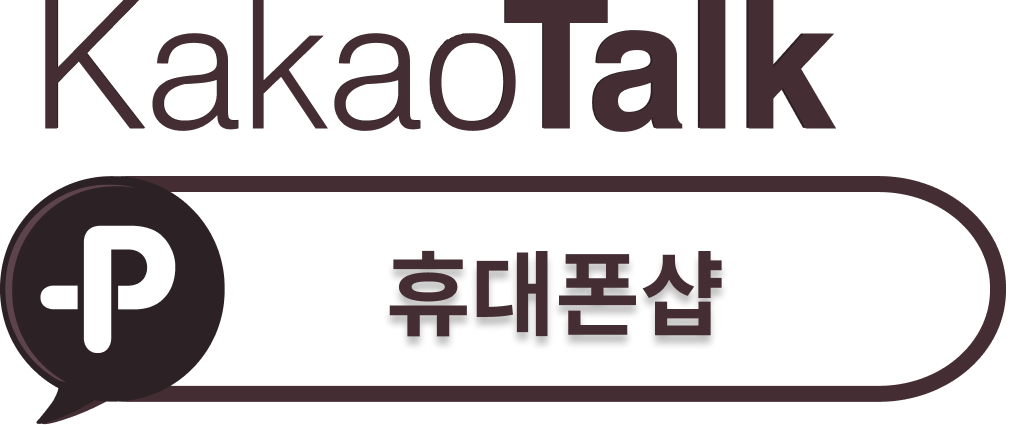
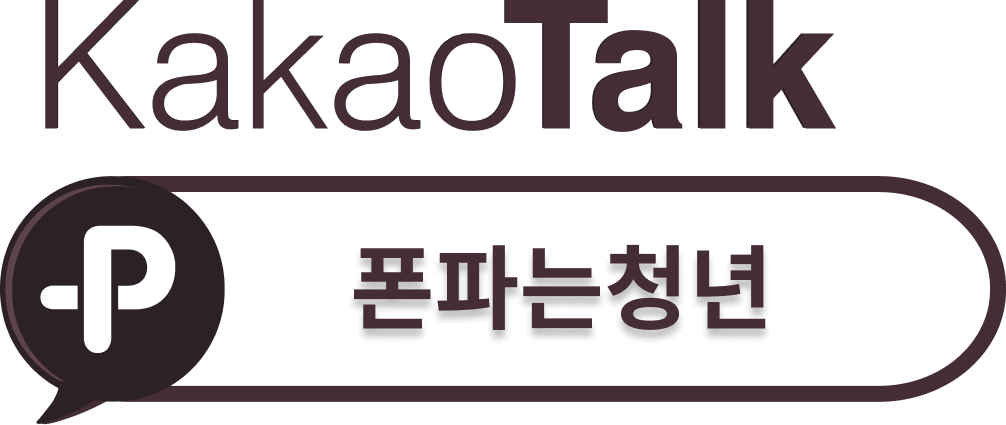
폰파는청년

diff --git a/src/pages/home/components/Section2.tsx b/src/pages/home/components/Section2.tsx
@@ -24,7 +24,7 @@ const Section2 = () => {
               <img src={CheckIcon} height="100%" alt="check" />
             </TitleIcon>
             <TitleSection1>
-              <span>울산 NO.1 휴대폰 성지! 휴대폰#</span>
+              <span>부산 NO.1 휴대폰 성지! 폰파는청년</span>
             </TitleSection1>
             <TitleSection2>
               <span>휴대폰 비쌀이유가 없습니다</span>
@@ -34,13 +34,13 @@ const Section2 = () => {
             </TitleSection3>
           </Title>
           <Card>
-            <CardItem type="fadeUp" delay={600}>
+            <CardItem type="fadeUp" delay={480}>
               <CardItemImage>
                 <img src={Section2Icon1} alt="icon" />
               </CardItemImage>
               <CardItemTextArea>
                 <CardItemBoldText>
-                  휴대폰#에서는 불가능이란 없습니다
+                  폰파는청년에서는 불가능이란 없습니다
                 </CardItemBoldText>
                 <CardItemLightText>
                   휴대폰 관련하여 필요하신 부분이 있으시다면
@@ -48,7 +48,7 @@ const Section2 = () => {
                 <CardItemLightText>언제든지 말씀해주세요!</CardItemLightText>
               </CardItemTextArea>
             </CardItem>
-            <CardItem type="fadeUp" delay={600}>
+            <CardItem type="fadeUp" delay={480}>
               <CardItemImage>
                 <img src={Section2Icon2} alt="icon" />
               </CardItemImage>
@@ -65,7 +65,7 @@ const Section2 = () => {
                 </CardItemLightText>
               </CardItemTextArea>
             </CardItem>
-            <CardItem type="fadeUp" delay={600}>
+            <CardItem type="fadeUp" delay={480}>
               <CardItemImage>
                 <img src={Section2Icon3} alt="icon" />
               </CardItemImage>
@@ -78,7 +78,7 @@ const Section2 = () => {
                   구매 후 나몰라라 하고 태도 돌변하는 경우 많이보셨죠?
                 </CardItemLightText>
                 <CardItemLightText>
-                  저희 휴대폰샵에서는 직영 대리점 출신의 공동대표들이 운영하는
+                  저희 폰파는청년에서는 직영 대리점 출신의 공동대표들이 운영하는
                   매장으로
                 </CardItemLightText>
                 <CardItemLightText>
@@ -106,7 +106,7 @@ const Section = styled.div`
   display: flex;
   flex-direction: column;
   width: 100%;
-  height: 200vh;
+  height: 220vh;
 
   @media (max-width: 1050px) {
     height: 240vh;

diff --git a/src/pages/home/components/Section4.tsx b/src/pages/home/components/Section4.tsx
@@ -1,5 +1,6 @@
 import FlagIcon from "assets/flagIcon.png";
-import OfficeImage from "assets/officeImage.png";
+import OfficeImage1 from "assets/officeImage1.png";
+import OfficeImage2 from "assets/OfficeImage2.png";
 import SectionBackground3 from "assets/sectionBackground3.png";
 import SectionBackground3M from "assets/sectionBackground3m.png";
 import React from "react";
@@ -15,10 +16,11 @@ const Section4 = () => (
           <img src={FlagIcon} height="100%" alt="check" />
         </SectionIcon>
         <SectionContent>
-          <span>울산 최저가 조건</span>
+          <span>부산 최저가 조건</span>
         </SectionContent>
         <SectionImageGroup>
-          <img src={OfficeImage} height="100%" alt="check" />
+          <img src={OfficeImage1} height="100%" alt="check" />
+          <img src={OfficeImage2} height="100%" alt="check" />
         </SectionImageGroup>
       </Section>
       <Card>
@@ -39,7 +41,7 @@ const Section4 = () => (
             <CardItemBoldText>
               판매전보다 판매후에 더 잘하는 매장
             </CardItemBoldText>
-            {/* <CardItemMiddleText>상담문의 시 휴대폰#</CardItemMiddleText> */}
+            {/* <CardItemMiddleText>상담문의 시 폰파는청년</CardItemMiddleText> */}
             <CardItemLightText>
               홈페이지를 통하여 문의주셨다 말씀하시면 추가 할인혜택이 있으니
             </CardItemLightText>

diff --git a/src/pages/home/components/Section1.tsx b/src/pages/home/components/Section1.tsx
@@ -11,7 +11,7 @@ const Section1 = () => (
             소중한 시간 절약하세요! 여기가 진짜입니다!
           </TitleSection1>
           <TitleSection2>
-            <span>울산지역</span>
+            <span>부산,울산지역</span>
           </TitleSection2>
           <TitleSection2 color="#002D51">
             <span>
@@ -19,7 +19,7 @@ const Section1 = () => (
             </span>
           </TitleSection2>
           <TitleSection3 color="#002D51">
-            울산에서 성지를 찾는 <b>한분의 고객도</b> 놓치지 않겠습니다
+            부산에서 성지를 찾는 <b>한분의 고객도</b> 놓치지 않겠습니다
           </TitleSection3>
         </Title>
       </Section>
@@ -97,14 +97,14 @@ const Wrapper = styled.div`
   max-width: calc(1280px + 15rem);
   height: 100%;
   margin: 0 auto;
-  background-image: url(${mainSection});
-  background-repeat: no-repeat;
-  background-size: cover;
 `;
 
 const Area = styled.div`
   width: 100%;
+  background-image: url(${mainSection});
   background-color: #ff3629;
+  background-repeat: no-repeat;
+  background-size: cover;
 `;
 
 // background-color: #ff3629;

diff --git a/src/components/Footer.tsx b/src/components/Footer.tsx
@@ -9,22 +9,22 @@ const Footer = () => (
         <FtLogo />
         <FtInfo>
           <InfoItem>
-            <b>상호명</b> : 청춘
+            <b>상호명</b> : 폰파는 청년
           </InfoItem>
           <InfoItem>
-            <b>사업자번호</b> : 594-78-00353
+            <b>사업자번호</b> : 249-06-01760
           </InfoItem>
           <InfoItem>
-            <b>대표자</b> : 이보형
+            <b>대표자</b> : 강범창
           </InfoItem>
           <InfoItem>
-            <b>TEL</b> : 052-235-5550
+            <b>TEL</b> : 010-5566-1714
           </InfoItem>
           {/* <InfoItem>
             <b>위치</b> : 
           </InfoItem> */}
           <InfoItem>
-            <b>주소</b> : 울산광역시 동구 대학길 86, 1층(화정동)
+            <b>주소</b> : 부산 수영구 호암로29번길 50 자이아파트 상가1층
           </InfoItem>
         </FtInfo>
       </FtGroup>

diff --git a/src/components/FixedButtonGroup.tsx b/src/components/FixedButtonGroup.tsx
@@ -6,13 +6,13 @@ import phone from "../assets/contactPhone.png";
 
 const FixedButtonGroup = () => (
   <Group>
-    <KakaoContactAnchor href="http://pf.kakao.com/_VTVHb/chat" target="_blank">
+    <KakaoContactAnchor href="http://pf.kakao.com/_udYzxj" target="_blank">
       <ContactKakaoImg alt="Contact Kakao" src={kakao} />
       <p>
         <b>카카오톡</b> 문의하기
       </p>
     </KakaoContactAnchor>
-    <PhoneContactAnchor href="tel: 052-235-5550">
+    <PhoneContactAnchor href="tel: 010-5566-1714">
       <ContactPhoneImg alt="Contact Phone" src={phone} />
       <p>
         지금 바로 <b>전화상담</b>

diff --git a/src/pages/home/components/Section3.tsx b/src/pages/home/components/Section3.tsx
@@ -11,7 +11,7 @@ import { AnimationWrapper } from "components/Animation";
 const Section3 = () => (
   <Area>
     <Wrapper>
-      <Section type="fadeLeft" delay={1000}>
+      <Section type="fadeLeft" delay={700}>
         <SectionIcon>
           <img src={FlagIcon} height="100%" alt="check" />
         </SectionIcon>
@@ -34,7 +34,7 @@ const Section = styled(AnimationWrapper)`
   justify-content: center;
   gap: 1rem;
   width: 100%;
-  height: 130vh;
+  height: 150vh;
   @media (max-width: 1000px) {
     height: 90vh;
   }

diff --git a/webpack.common.js b/webpack.common.js
@@ -149,9 +149,9 @@ module.exports = {
   plugins: [
     new HtmlWebpackPlugin({
       template: "./src/index.html",
-      title: "휴대폰#",
-      description: "울산지역 No.1 우대 혜택제공 매장 휴대폰#",
-      url: "https://0522355550.com",
+      title: "폰파는청년",
+      description: "부산지역 No.1 우대 혜택제공 매장 폰파는청년",
+      url: "https://soooll1.cafe24.com",
       themeColor: "#fff",
       backgroundThemeColor: "#00bf96",
     }),
